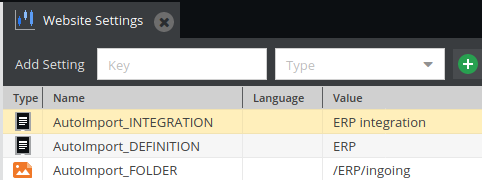
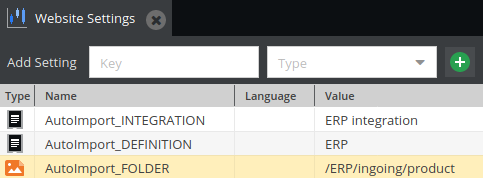
Initial commit

diff --git a/Readme.MD b/Readme.MD
@@ -34,9 +34,9 @@ After installation open up Website settings and fill in:
 
 ![Website settings example](docs/img/website-settings.png?raw=true)
 
-From now on, all assets added to the configured folder will be used as an input to defined Import Definition.
+From now on, all assets added to the configured folder (`product` in example above) will be used as an input to defined Import Definition.
 Executable in Process Manager will be createad automatically, alongside with additional folder structure,
-as subfolders of defined in Website Settings (if needed):
+as subfolders of the one defined in Website Settings (if needed):
 - `/processing` - files being currently imported
 - `/done` - files sucessfully imported
 - `/error` - files which import ended with an error
